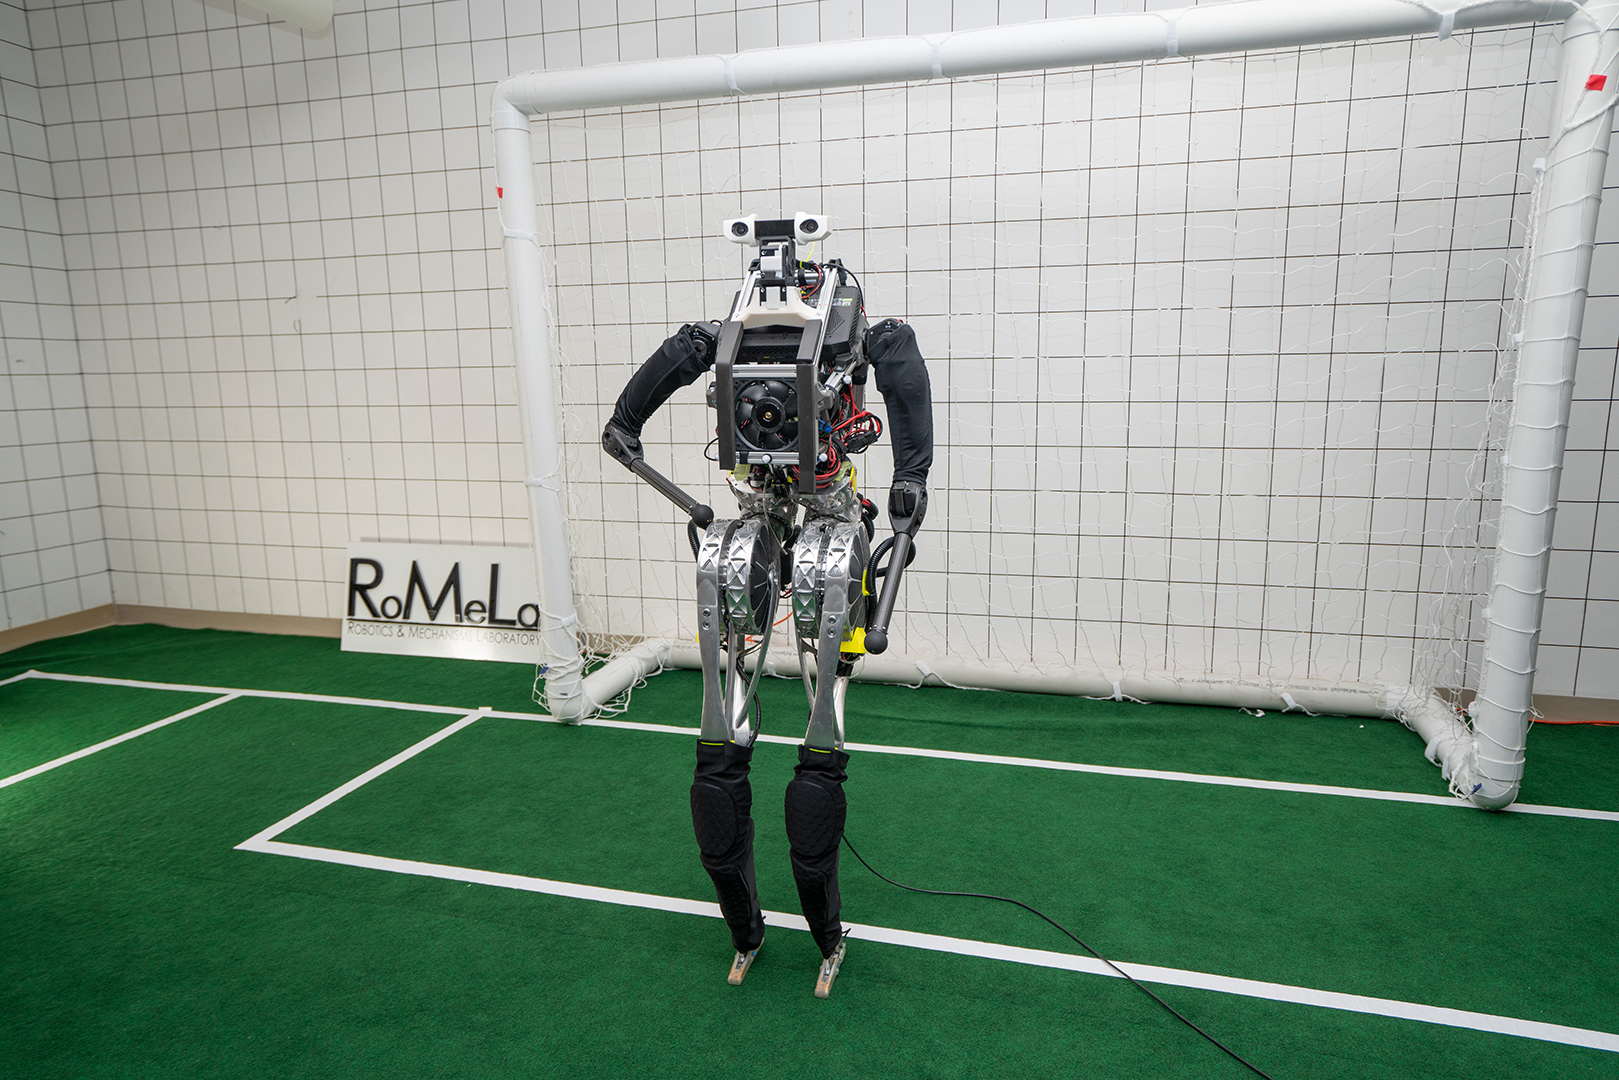
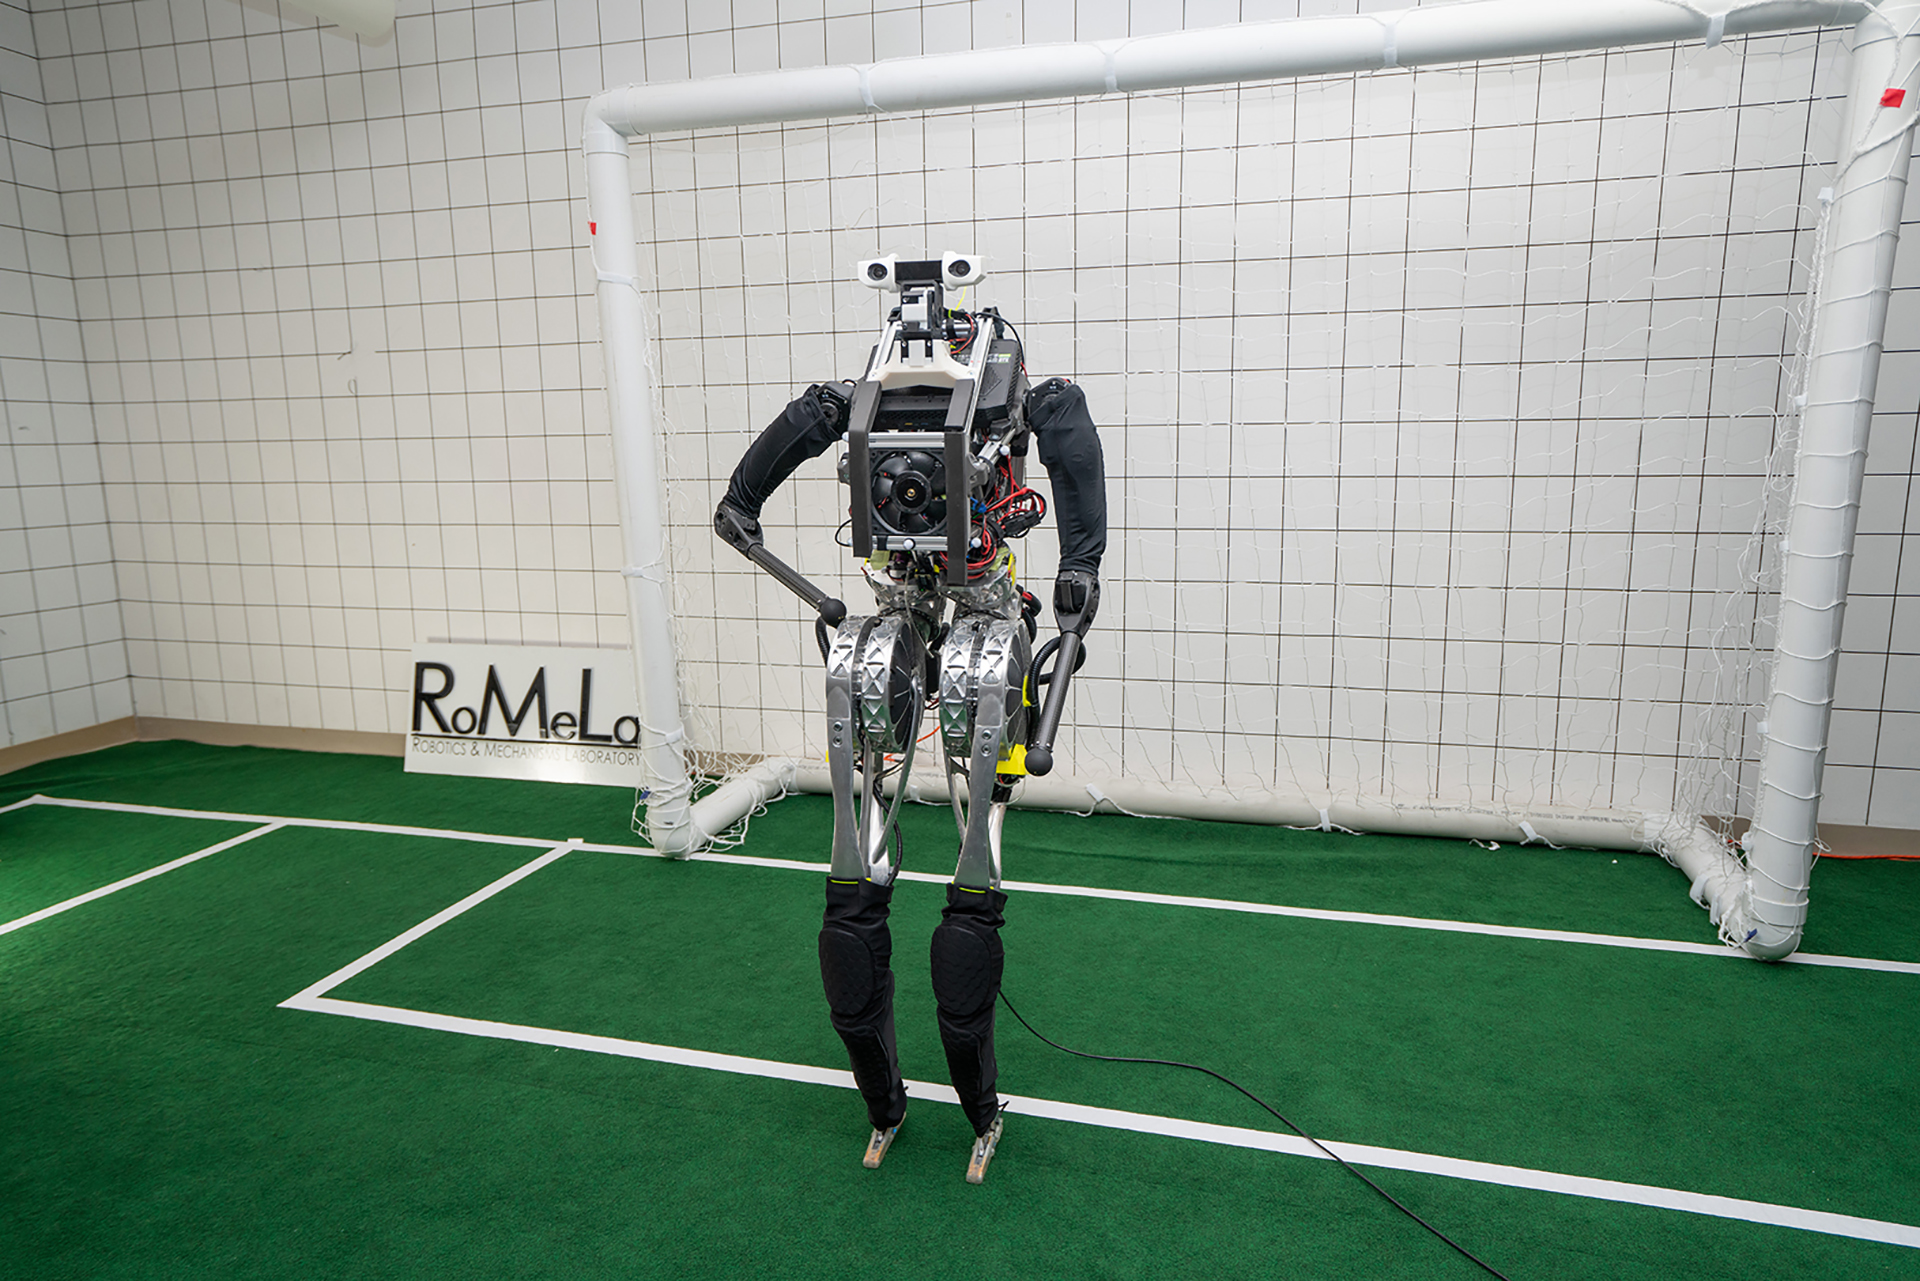
Updated images

diff --git a/index.html b/index.html
@@ -316,19 +316,22 @@
 <section class="hero is-small">
   <div class="hero-body">
     <div class="container">
-      <div id="results-carousel" class="carousel results-carousel">
-       <div class="item">
-        <!-- TODO: Replace with your research result images -->
-        <img src="static/images/artemis_goal_pose.jpg" alt="ARTEMIS goal pose" loading="lazy"/>
-        <!-- TODO: Replace with description of this result -->
-      </div>
-     <div class="item">
-      <!-- Your image here -->
-      <img src="static/images/artemis_goal_pose.jpg" alt="ARTEMIS goal pose" loading="lazy"/>
+        <div id="results-carousel" class="carousel results-carousel">
+          <div class="item">
+            <img src="static/images/artemis_goal_pose.jpg" alt="ARTEMIS goal pose" loading="lazy"/>
+          </div>
+          <div class="item">
+            <img src="static/images/artemis3.jpg" alt="ARTEMIS goal pose" loading="lazy"/>
+          </div>
+          <div class="item">
+            <img src="static/images/sw.png" alt="SW" loading="lazy"/>
+          </div>
+          <div class="item">
+            <img src="static/images/loco_framework.png" alt="Locomotion framework" loading="lazy"/>
+          </div>
+        </div>
     </div>
   </div>
-</div>
-</div>
 </section>
 <!-- End image carousel -->
 
